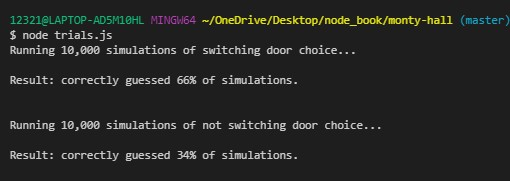
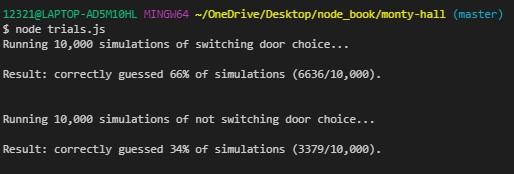
adding specific simulation count details to results

diff --git a/trials.js b/trials.js
@@ -120,7 +120,7 @@ function runSimulation() {
         }
     }
 
-    console.log(`Result: correctly guessed ${Math.round(successfulSwitchRuns/10000*100)}% of simulations.\n\n`)
+    console.log(`Result: correctly guessed ${Math.round(successfulSwitchRuns/10000*100)}% of simulations (${successfulSwitchRuns}/10,000).\n\n`)
 
     console.log('Running 10,000 simulations of not switching door choice...\n')
 
@@ -130,7 +130,7 @@ function runSimulation() {
         }
     }
 
-    console.log(`Result: correctly guessed ${Math.round(successfulNoSwitchRuns/10000*100)}% of simulations.\n\n`)
+    console.log(`Result: correctly guessed ${Math.round(successfulNoSwitchRuns/10000*100)}% of simulations (${successfulNoSwitchRuns}/10,000).\n\n`)
 
 }
 
